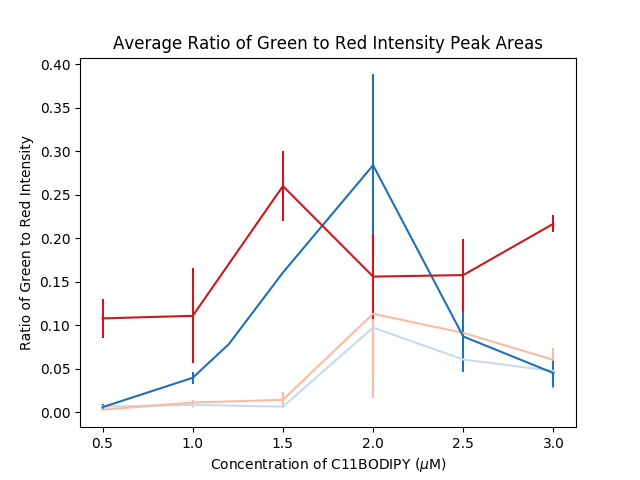
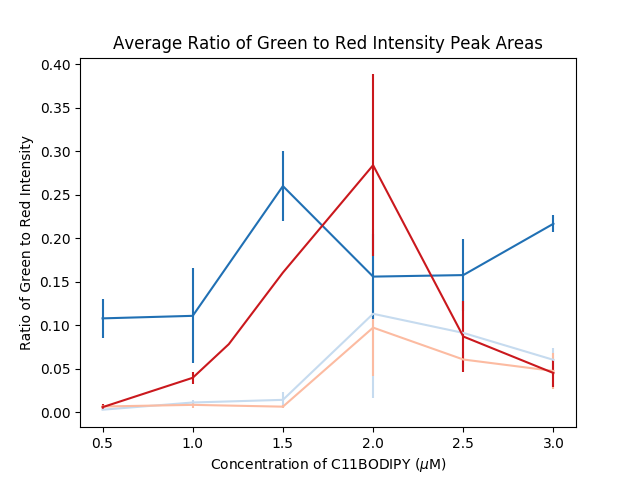
Added plots to the repo

diff --git a/Image_Processing/plotting.py b/Image_Processing/plotting.py
@@ -54,7 +54,7 @@ def plot_FA(inputfiles, show=False):
             plt.ylabel("Ratio of Green to Red Intensity")
             plt.legend(loc='best')
         if not show:
-            inputbase = input.split('_')[0]
+            inputbase = inp.split('_')[0]
             plt.savefig(inputbase + "_PeakHeightRatios.png")
 
         plt.figure()
@@ -109,8 +109,10 @@ def plot_FA(inputfiles, show=False):
             plt.xlabel("Concentration of C11BODIPY ($\mu$M)")
             plt.ylabel("Ratio of Green to Red Intensity")
             plt.legend(loc='best')
-    plt.figure()
+    if not show:
+        plt.savefig("data/AllExperiments_PeakRatio.png")
 
+    plt.figure()
     for i, T in enumerate(times):
         plt.title("Average Ratio of Green to Red Intensity Peak Heights Across Experiments")
         for j, Tr in enumerate(treatments):
@@ -131,6 +133,8 @@ def plot_FA(inputfiles, show=False):
         plt.xlabel("Concentration of C11BODIPY ($\mu$M)")
         plt.ylabel("Ratio of Green to Red Intensity")
         plt.legend(loc='best')
+    if not show:
+        plt.savefig("data/AllExperiments_AreaRatio.png")
 
     if show:
         plt.show()

diff --git a/Image_Processing/Ferroptosis_Analysis.py b/Image_Processing/Ferroptosis_Analysis.py
@@ -95,7 +95,7 @@ def main():
         proc_sheet(filename, outname, False)
     ## Comment following line in for peak graphs and debugging
     # proc_sheet(filename,outname, True)
-    plot_FA([outname,"data/190221_result_summary.csv"], show=True)
+    plot_FA([outname,"data/190221_result_summary.csv","data/190214_result_summary.csv"], show=False)
 
 
 if __name__ == "__main__":
